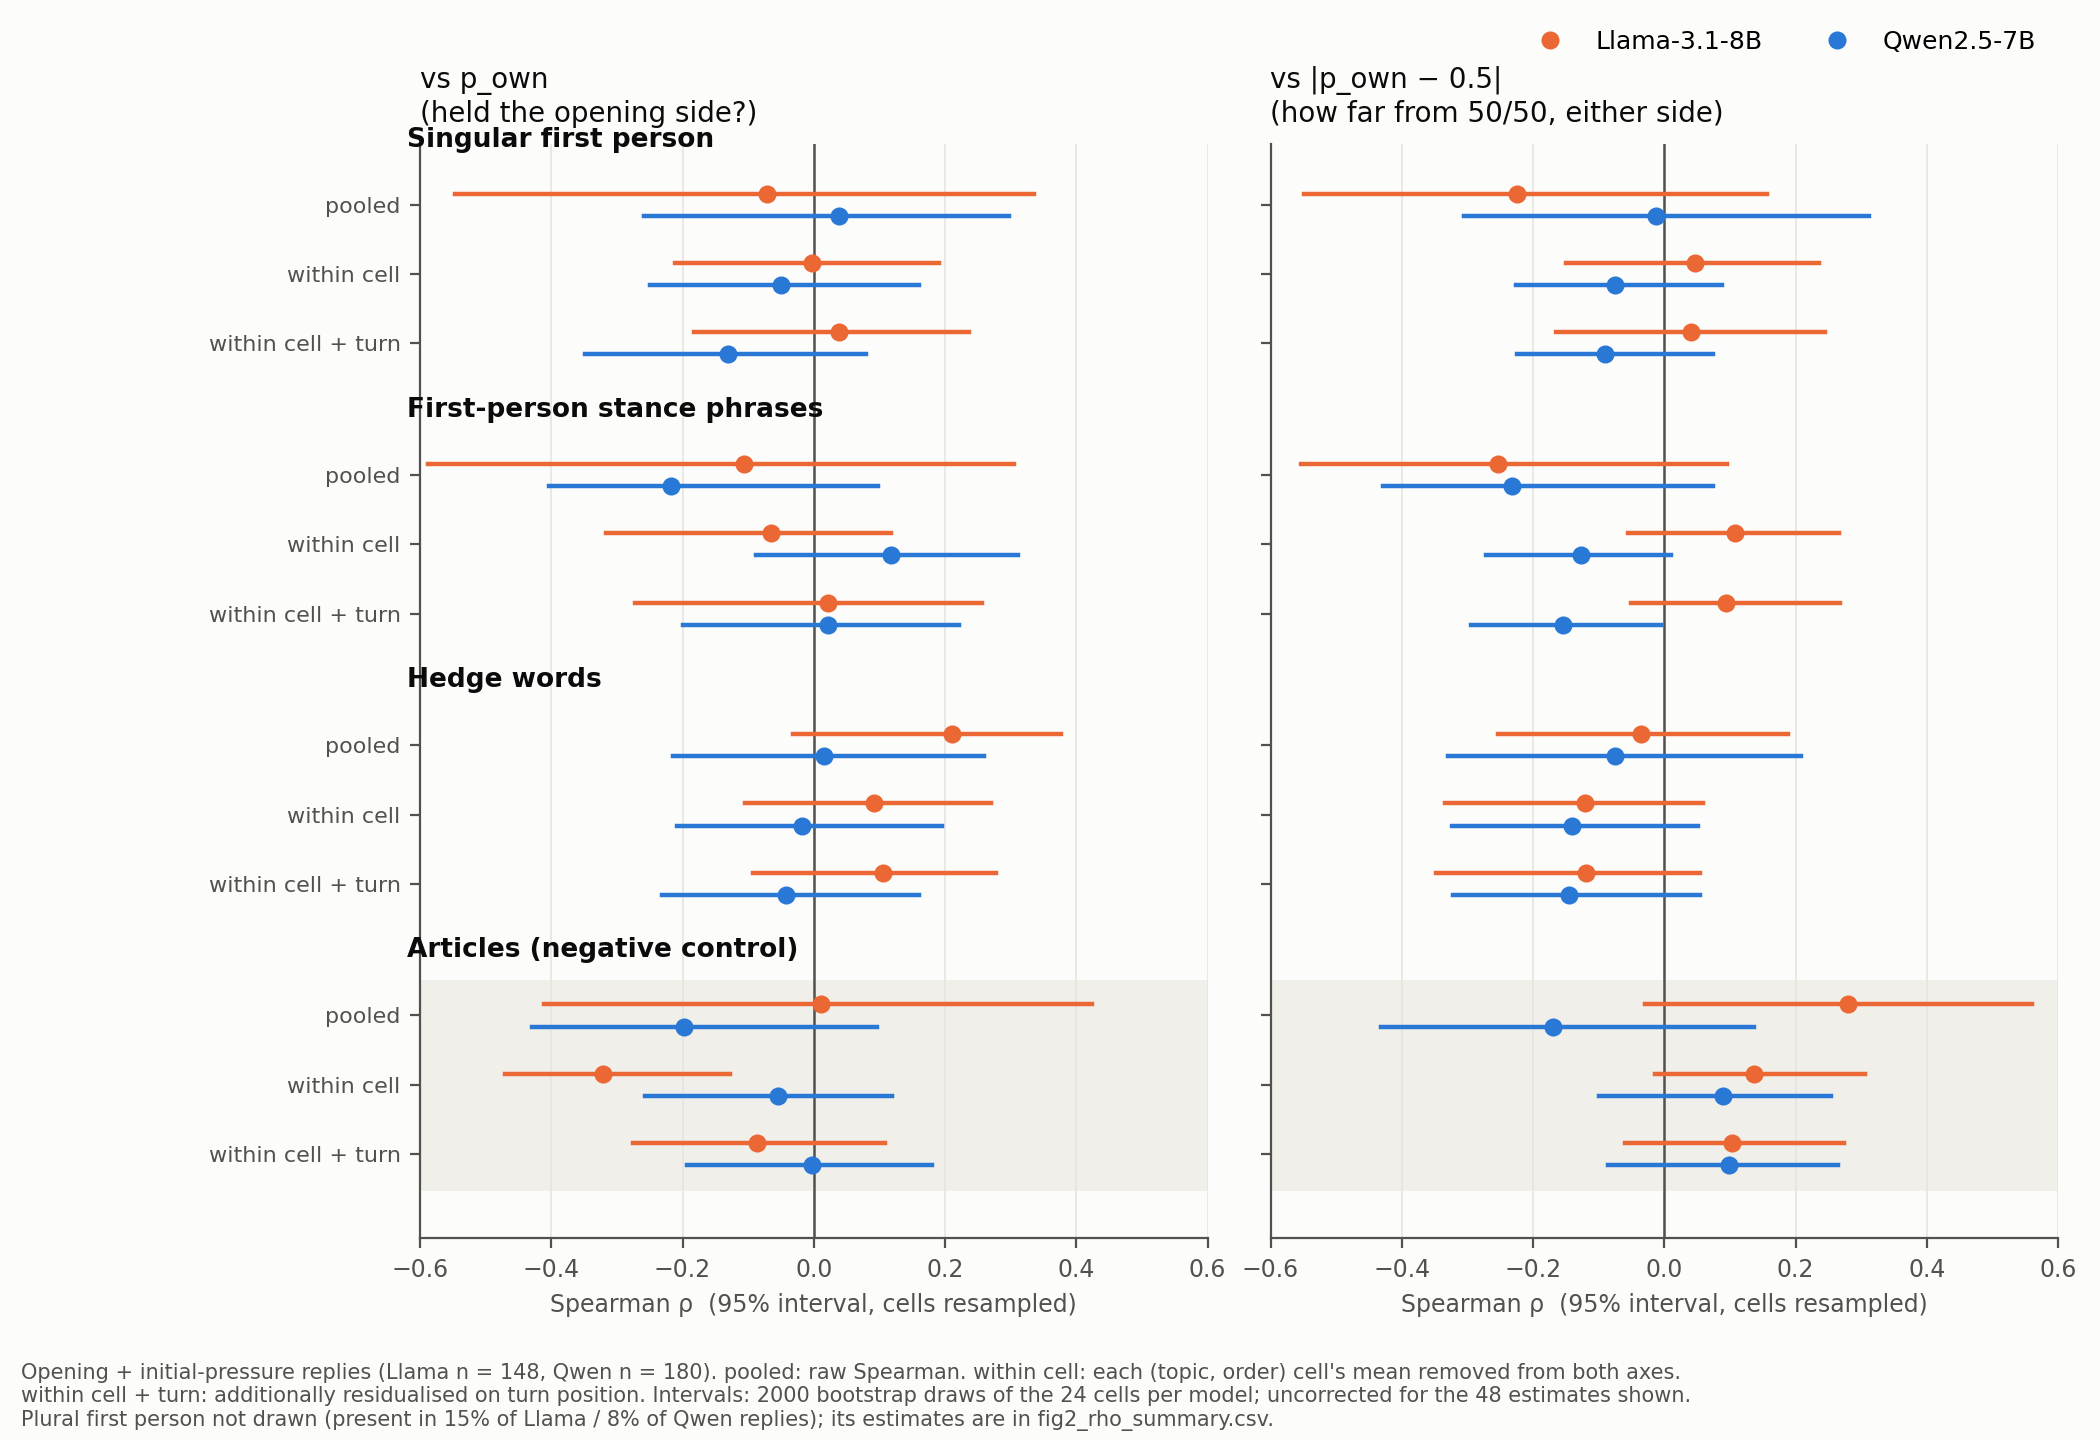
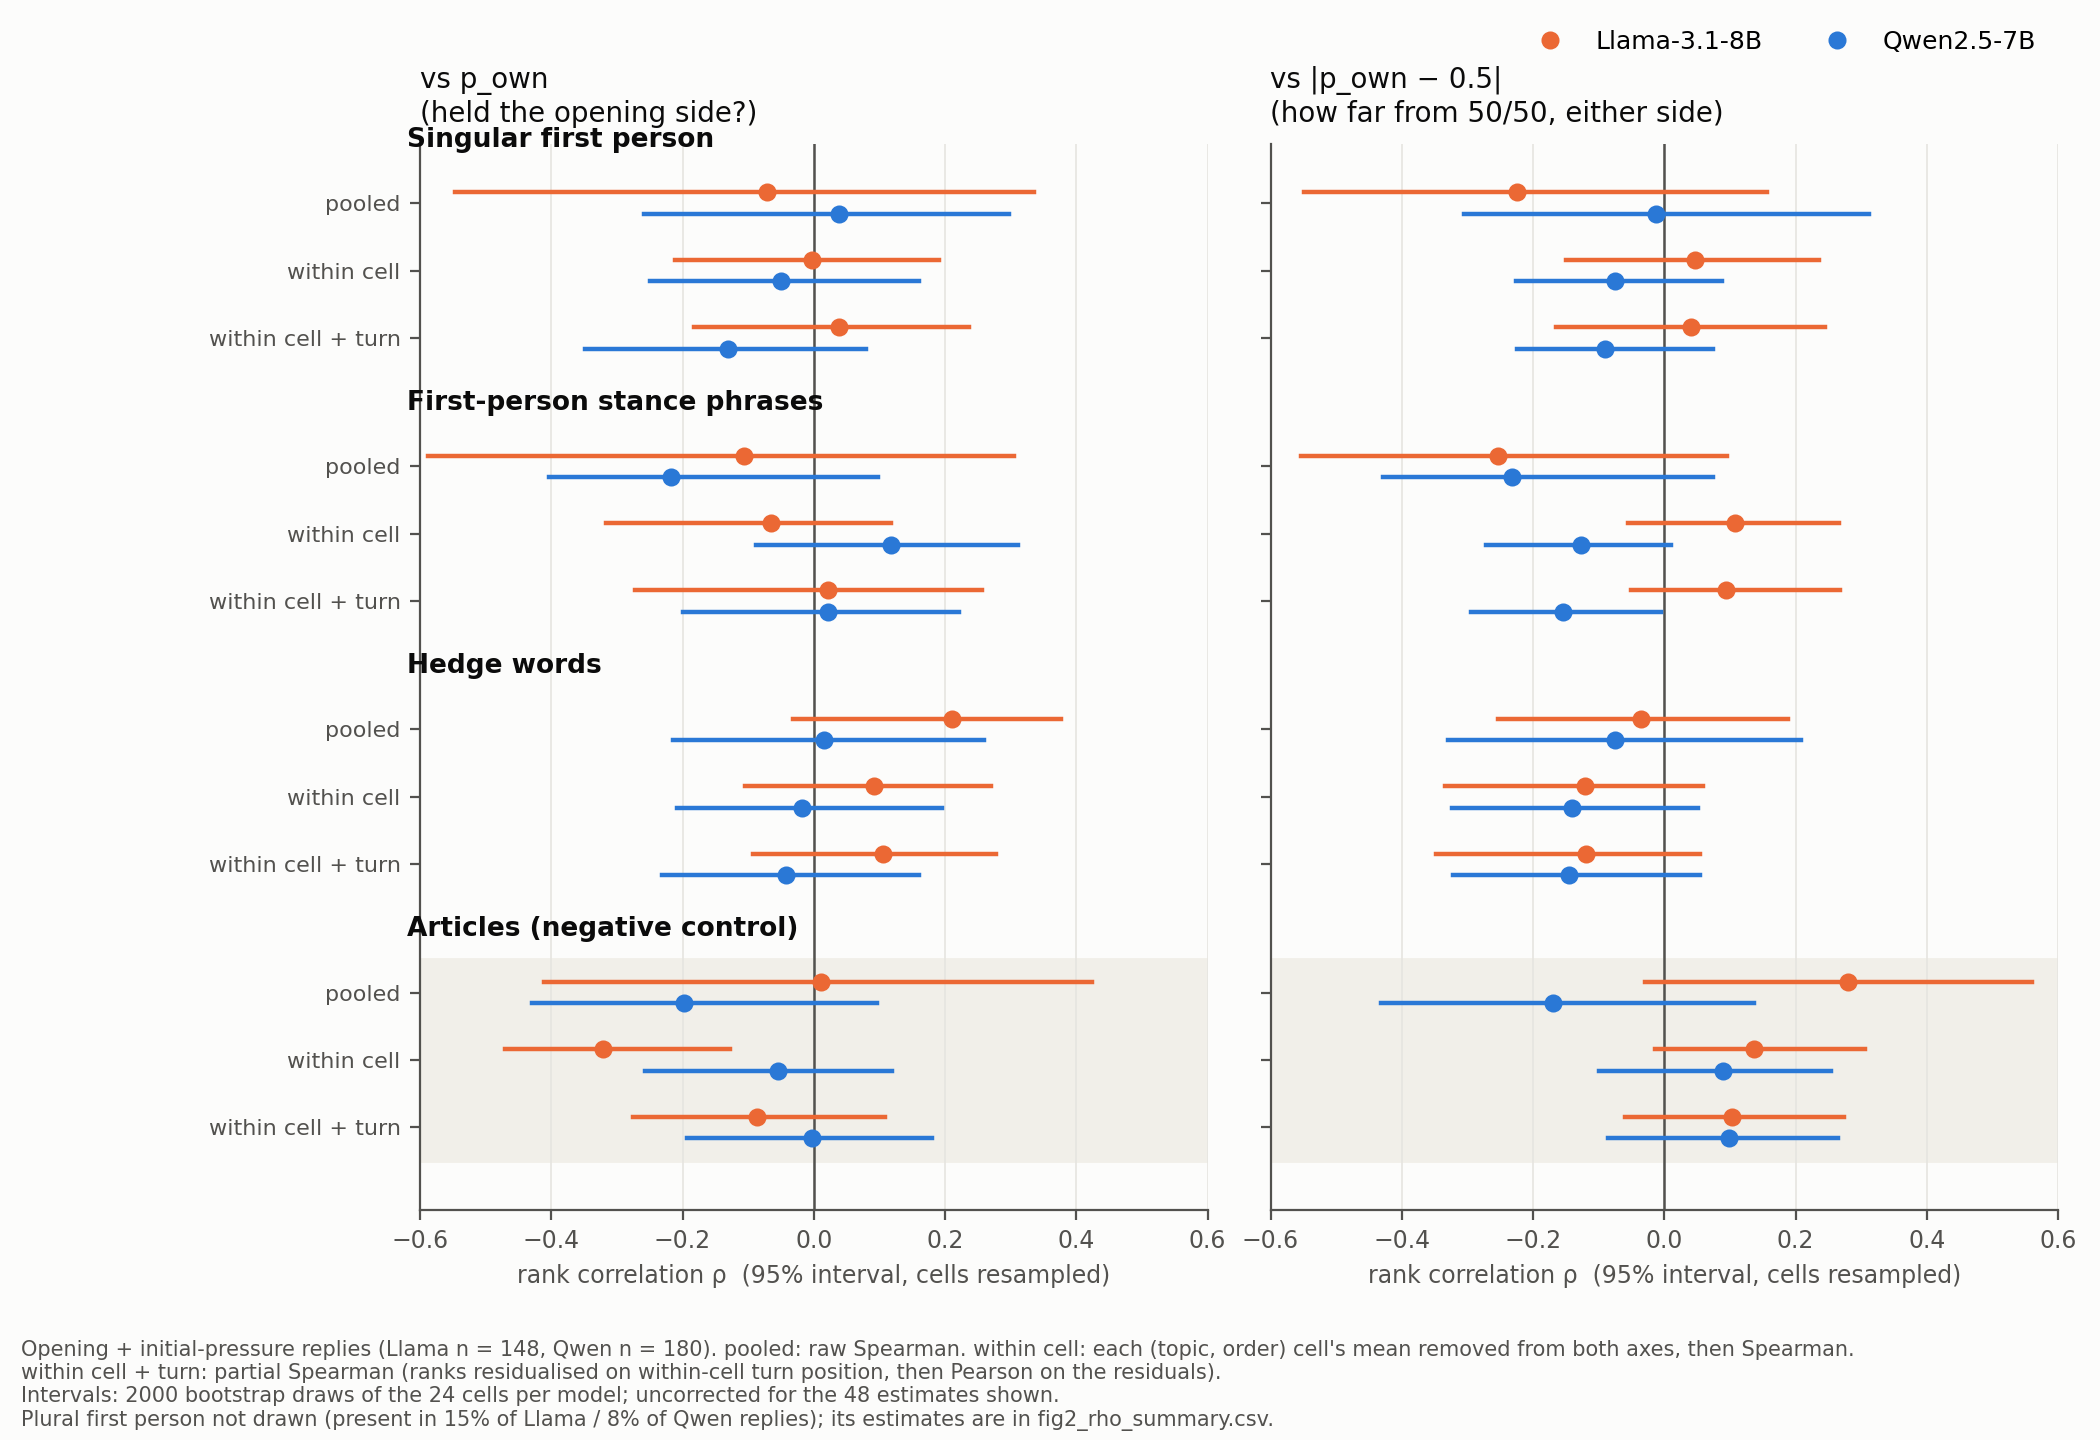
redraw fig2 and fig3

diff --git a/scripts/plot_fig3_followup_arms.py b/scripts/plot_fig3_followup_arms.py
@@ -1,0 +1,109 @@
+"""Figure 3 (2026-11-01): first-person rates in the 12 follow-up turns, by
+condition. Same numbers as the draft's follow-up table (288 replies per
+model per condition = 24 cells x 12 turns): singular / stance phrases /
+plural, per 1000 words. Bars are reply means; whiskers are 95% bootstrap
+intervals resampling (topic, order) cells (2000 draws). The dashed line in
+each panel is that model's initial-pressure mean, for reference.
+
+    python3 scripts/plot_fig3_followup_arms.py --out figs/6x6
+"""
+import argparse, csv, os, sys
+from collections import defaultdict
+from pathlib import Path
+import numpy as np
+import matplotlib
+matplotlib.use("Agg")
+import matplotlib.pyplot as plt                                # noqa: E402
+
+sys.path.insert(0, str(Path(__file__).resolve().parent))
+import plot_first_person_draft2 as d2                          # noqa: E402
+
+ARMS = [("pressure_sustained", "sustained\npressure"),
+        ("pressure_release", "release\nsame\ntopic"),
+        ("pressure_switch", "release\nswitch\ntopic"),
+        ("neutral", "neutral\nsame\ntopic"),
+        ("neutral_switch", "neutral\nswitch\ntopic")]
+CATS = [("fp_sing", "Singular first person\n(I, me, my ...)"),
+        ("fp_stance", "First-person stance phrases\n(I would argue, in my view ...)"),
+        ("fp_plur", "Plural first person\n(we, us, our ...)")]
+N_BOOT = 2000
+
+
+def load(path):
+    rows = list(csv.DictReader(open(path)))
+    for r in rows:
+        for k, _ in CATS:
+            r[k] = float(r[k])
+        r["cell"] = (r["topic"], r["order"])
+    return rows
+
+
+def mean_ci(rows, k, rng):
+    by = defaultdict(list)
+    for r in rows:
+        by[r["cell"]].append(r[k])
+    cells = list(by.values())
+    boot = [np.concatenate([cells[i] for i in rng.integers(len(cells), size=len(cells))]).mean()
+            for _ in range(N_BOOT)]
+    return np.mean([r[k] for r in rows]), *np.percentile(boot, [2.5, 97.5])
+
+
+def main():
+    ap = argparse.ArgumentParser()
+    ap.add_argument("--out", default="figs/6x6")
+    args = ap.parse_args()
+    models = [("Llama-3.1-8B", load("figs/llama_6x6/first_person.csv"), d2.ORANGE),
+              ("Qwen2.5-7B", load("figs/qwen_6x6/first_person.csv"), d2.BLUE)]
+    rng = np.random.default_rng(0)
+    fig, axes = plt.subplots(1, 3, figsize=(12.5, 5.0), facecolor=d2.SURF)
+    x = np.arange(len(ARMS)); w = 0.36
+    log = []
+    for ax, (k, title) in zip(axes, CATS):
+        d2.style(ax)
+        for j, (name, rows, col) in enumerate(models):
+            st = []
+            for arm, _ in ARMS:
+                sel = [r for r in rows if r["phase"] == "release" and r["arm"] == arm]
+                assert len(sel) == 288, (name, arm, len(sel))
+                st.append(mean_ci(sel, k, rng))
+                log.append((name, k, arm, *st[-1]))
+            m = np.array([s[0] for s in st])
+            err = np.array([[s[0] - s[1] for s in st], [s[2] - s[0] for s in st]])
+            xs = x + (j - 0.5) * (w + 0.02)
+            ax.bar(xs, m, w, color=col, edgecolor=d2.SURF, lw=1,
+                   label=name, zorder=2)
+            ax.errorbar(xs, m, yerr=err, fmt="none", ecolor=d2.INK2, lw=1,
+                        capsize=2.5, zorder=3)
+            for xx, mm, top in zip(xs, m, [s[2] for s in st]):
+                ax.annotate(f"{mm:.1f}", (xx, top), xytext=(0, 3),
+                            textcoords="offset points", ha="center",
+                            fontsize=7, color=d2.INK)
+            pm = np.mean([r[k] for r in rows if r["phase"] == "pressure"])
+            ax.axhline(pm, color=col, lw=1, ls=(0, (4, 3)), zorder=1)
+        ax.set_xticks(x)
+        ax.set_xticklabels([a[1] for a in ARMS], fontsize=7.8)
+        ax.set_ylim(bottom=0)
+        ax.set_title(title, loc="left", fontsize=9.5, color=d2.INK, pad=6)
+    axes[0].set_ylabel("per 1000 words", fontsize=9, color=d2.INK2)
+    h, l = axes[0].get_legend_handles_labels()
+    fig.legend(h, l, frameon=False, fontsize=9, ncol=2, loc="upper right",
+               bbox_to_anchor=(0.99, 1.0))
+    fig.text(0.01, 0.01,
+             "12 follow-up turns per cell, 288 replies per model per condition "
+             "(24 cells x 12). Bars: reply means; whiskers: 95% bootstrap over "
+             "cells. Dashed lines: each model's initial-pressure mean.\n"
+             "Only 'sustained pressure' keeps asking for a stance; the other four "
+             "ask factual questions, so near-zero rates there reflect question "
+             "type, not weaker stance.", fontsize=7.5, color=d2.INK2)
+    fig.subplots_adjust(left=0.06, right=0.99, top=0.85, bottom=0.27, wspace=0.22)
+    path = os.path.join(args.out, "draft2_fig3_followup_arms.png")
+    fig.savefig(path, dpi=200, facecolor=d2.SURF)
+    with open(os.path.join(args.out, "fig3_followup_arms.csv"), "w") as f:
+        f.write("model,word_class,condition,mean,ci_lo,ci_hi\n")
+        for r in log:
+            f.write(",".join([r[0], r[1], r[2]] + [f"{v:.2f}" for v in r[3:]]) + "\n")
+    print(f"[fig] {path}")
+
+
+if __name__ == "__main__":
+    main()

diff --git a/scripts/plot_fig2_rho_summary.py b/scripts/plot_fig2_rho_summary.py
@@ -142,7 +142,7 @@ def main():
                 yi += 1
         ax.set_xlim(-0.6, 0.6)
         ax.set_title(tlab, loc="left", fontsize=10, color=d2.INK, pad=8)
-        ax.set_xlabel("Spearman ρ  (95% interval, cells resampled)",
+        ax.set_xlabel("rank correlation ρ  (95% interval, cells resampled)",
                       fontsize=8.5, color=d2.INK2)
     axes[0].set_yticks(ypos)
     axes[0].set_yticklabels(ylab, fontsize=8)
@@ -157,13 +157,14 @@ def main():
     fig.text(0.01, 0.01,
              "Opening + initial-pressure replies (Llama n = 148, Qwen n = 180). "
              "pooled: raw Spearman. within cell: each (topic, order) cell's mean "
-             "removed from both axes.\nwithin cell + turn: additionally "
-             "residualised on turn position. Intervals: 2000 bootstrap draws of "
+             "removed from both axes, then Spearman.\nwithin cell + turn: partial "
+             "Spearman (ranks residualised on within-cell turn position, then "
+             "Pearson on the residuals).\nIntervals: 2000 bootstrap draws of "
              "the 24 cells per model; uncorrected for the 48 estimates shown.\n"
              "Plural first person not drawn (present in 15% of Llama / 8% of "
              "Qwen replies); its estimates are in fig2_rho_summary.csv.",
              fontsize=7.5, color=d2.INK2)
-    fig.subplots_adjust(left=0.2, right=0.98, top=0.90, bottom=0.14, wspace=0.08)
+    fig.subplots_adjust(left=0.2, right=0.98, top=0.90, bottom=0.16, wspace=0.08)
     path = os.path.join(args.out, "draft2_fig2_rho_summary.png")
     fig.savefig(path, dpi=200, facecolor=d2.SURF)
     print(f"[fig] {path}")
